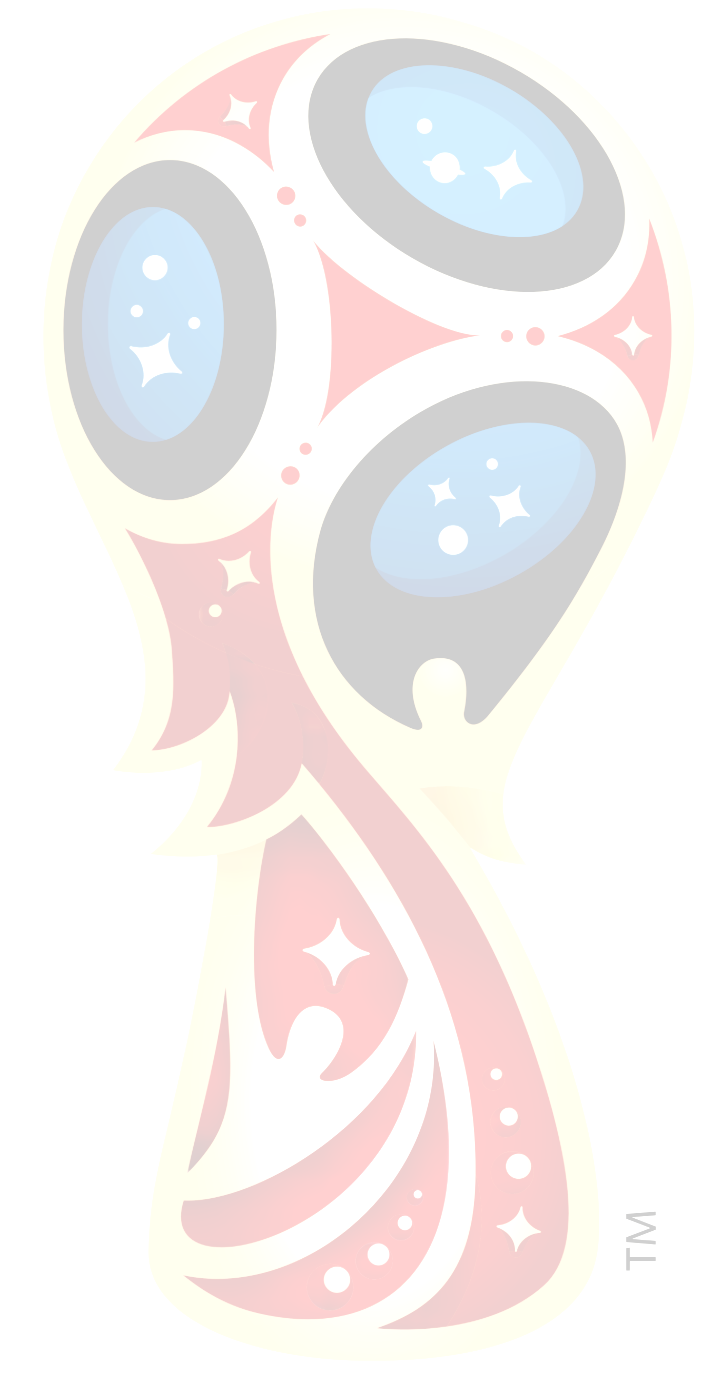
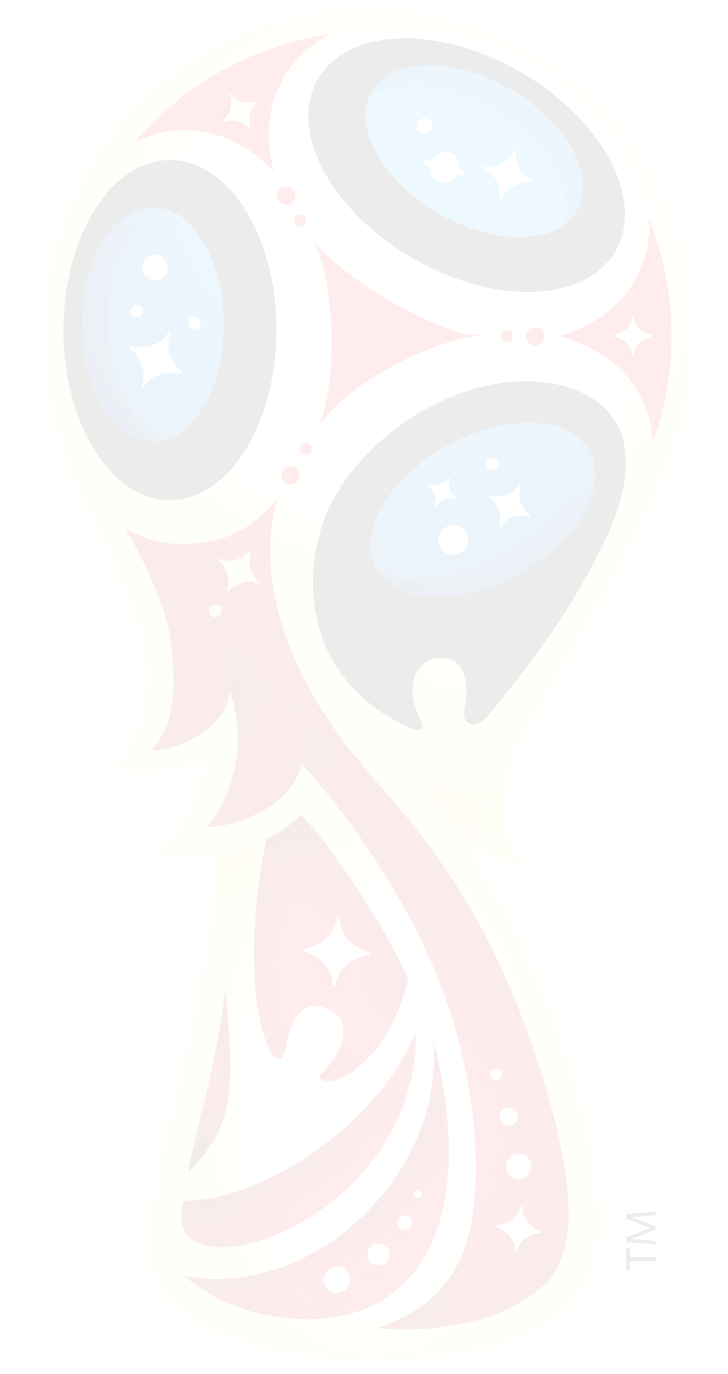
Change bg image. Fix bg opacity for cards.

diff --git a/resources/assets/sass/app.scss b/resources/assets/sass/app.scss
@@ -14,7 +14,15 @@
 }
 
 .card {
-  opacity: .92;
+  background-color: rgba(255,255,255, .8);
+}
+
+.bg-dark {
+  background-color: rgba(52,58,64, .9) !important;
+}
+
+.bg-light {
+  background-color: rgba(248,249,250, .8) !important;
 }
 
 .btn-facebook {
